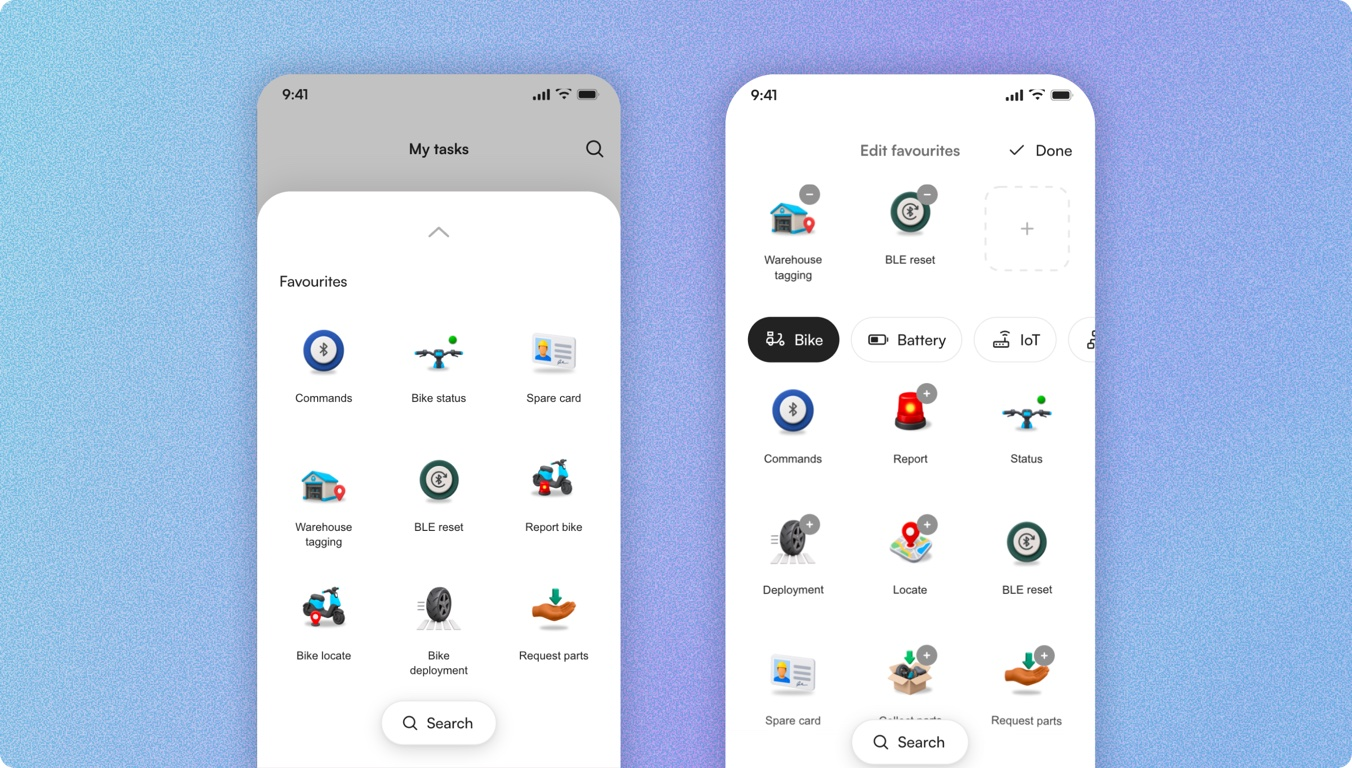
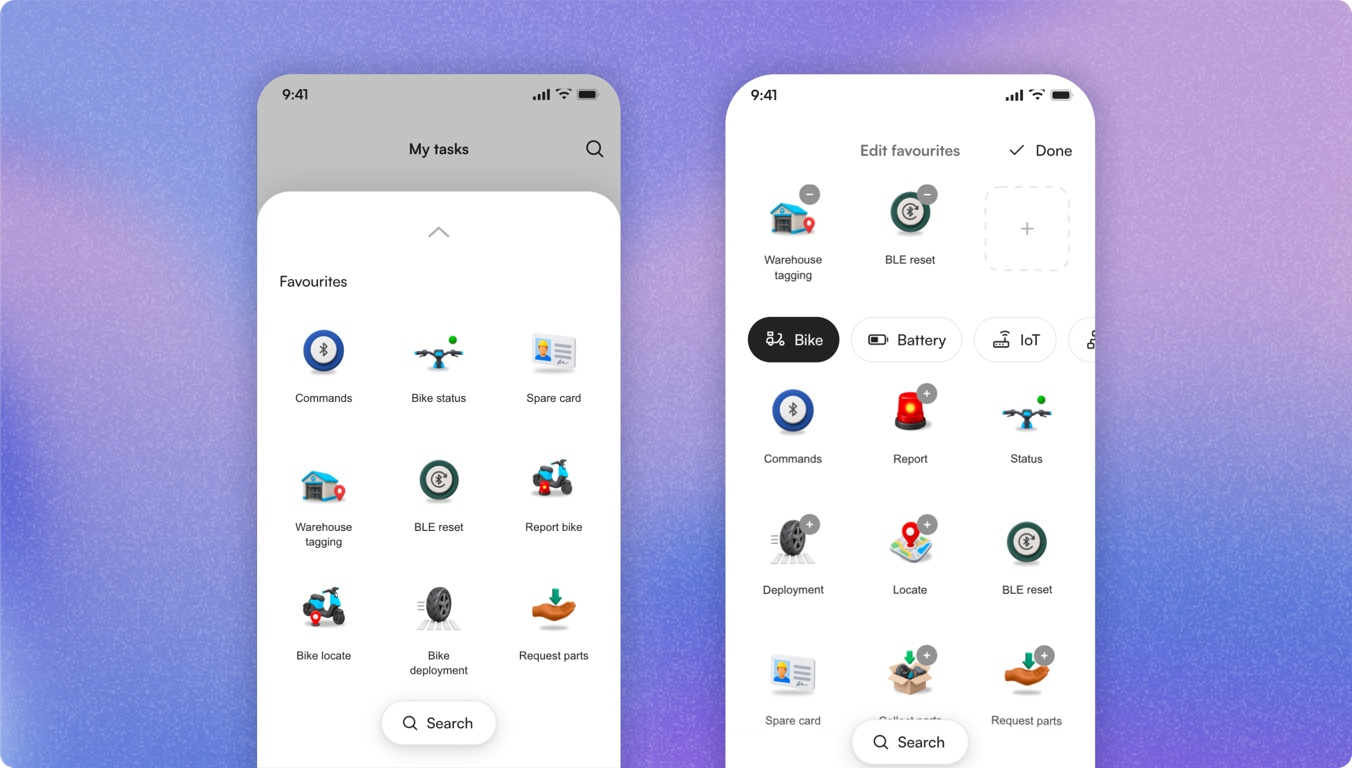
Drop the black card behind the photo, and two new thumbnails
The solid black card offset behind the About photo is gone, along with
the padding that reserved room for it and the negative margin that
re-centred the result on mobile. The window grows into the freed 14px
rather than the box shrinking: 226x333 -> 240x347 on desktop, 294x432 ->
308x452 on mobile. The desktop crop is re-aimed for the new 222x329
opening and keeps its head-to-knees framing; mobile's offsets are all
percentages, so they rescaled on their own.

Workbench takes Cs02_new.2.2 and Blinkit takes Cs05_new.2, both resized
from 2704x1536 to 1352x768 like the rest, with their cache-busters
bumped.

diff --git a/styles.css b/styles.css
@@ -450,8 +450,6 @@ img { max-width: 100%; display: block; }
   gap: 72px;
 }
 
-/* The frame stacks two same-sized cards: a solid black one nudged down and
-   right, and the white photo card on top of it. */
 /* Fixed portrait rectangle. align-self:start opts out of the grid's stretch,
    so the aspect-ratio below — not the row — decides the height. The bio is
    what stretches now. */
@@ -460,15 +458,6 @@ img { max-width: 100%; display: block; }
   align-self: start;
   flex: none;
   width: 308px;
-  padding: 0 14px 14px 0;          /* room for the black card to show through */
-}
-
-.photo::after {
-  content: "";
-  position: absolute;
-  inset: 14px 0 0 14px;
-  border-radius: 7px;
-  background: #000000;
 }
 
 /* The frame mirrors the shot. The flip has to sit on the window, not the
@@ -752,11 +741,8 @@ img { max-width: 100%; display: block; }
   .about { padding-top: 40px; padding-bottom: 96px; }
   .about-intro { grid-template-columns: minmax(0, 1fr); gap: 48px; }
 
-  /* Stacked, the photo is narrower than the column it now has to itself.
-     The 14px of black offset lives inside the box's own padding, so
-     centring the box would leave the white card sitting 7px left; the
-     margin gives that back. */
-  .photo { justify-self: center; margin-right: -14px; }
+  /* Stacked, the photo is narrower than the column it now has to itself. */
+  .photo { justify-self: center; }
 
   /* Stacked, there is no photo alongside to leave slack, so the auto margin
      would collapse to the 24px gap. Give the section break back explicitly. */
@@ -1070,18 +1056,15 @@ img { max-width: 100%; display: block; }
 
   .photo-window {
     position: absolute;
-    top: 0;
-    left: 0;
-    right: 14px;                     /* clears the black card's offset */
-    bottom: 14px;
+    inset: 0;
     aspect-ratio: auto;              /* the row decides the height now */
   }
 
   /* Re-aimed for the full-height window. The shot is a wide room and the
      subject a small part of it on the right, so the image is blown up and
      offset rather than object-fit'd — cover would barely crop and show the
-     whole room. These values put source x 719–1201, y 775–1505 across the
-     208x315 opening — the padding box, which is what the percentages resolve
+     whole room. These values put source x 714–1206, y 775–1505 across the
+     222x329 opening — the padding box, which is what the percentages resolve
      against and what overflow clips to, the 9px white border being outside
      both. That frames her head to her knees with the chair either side,
      rather than the whole figure down to the shoes: at this size the full
@@ -1092,9 +1075,9 @@ img { max-width: 100%; display: block; }
      it and a percentage would drag the framing with it. The window's own
      scaleX(-1) mirrors the result, as before. */
   .photo-window img {
-    width: 301.9%;
-    left: -149.2%;
-    top: -334px;
+    width: 295.4%;
+    left: -144.9%;
+    top: -349px;
   }
 
   .worked {

diff --git a/index.html b/index.html
@@ -11,7 +11,7 @@
      lifetime, so a returning visitor can get new HTML with an old stylesheet
      and see a broken page. Changing the query makes it a new URL and forces a
      refetch. BUMP BOTH NUMBERS whenever you edit styles.css or script.js. -->
-<link rel="stylesheet" href="styles.css?v=108">
+<link rel="stylesheet" href="styles.css?v=112">
 </head>
 <!-- The card design is the site, so its class is set here rather than by
      script.js: added after load it would show a frame of another design
@@ -110,7 +110,7 @@
          keeps the old thumbnail out of cache. Bump the number on any image
          that gets re-exported. -->
     <figure class="preview-panel" data-preview="workbench">
-      <img src="assets/case/cs01.jpg?v=3" alt="" width="676" height="384" decoding="async">
+      <img src="assets/case/cs01.jpg?v=5" alt="" width="676" height="384" decoding="async">
     </figure>
 
     <figure class="preview-panel" data-preview="mechanics">
@@ -126,7 +126,7 @@
     </figure>
 
     <figure class="preview-panel" data-preview="blinkit">
-      <img src="assets/case/cs05.jpg?v=3" alt="" width="676" height="384" decoding="async">
+      <img src="assets/case/cs05.jpg?v=4" alt="" width="676" height="384" decoding="async">
     </figure>
   </div>
 </section>
@@ -237,6 +237,6 @@
 </section>
 </main>
 
-<script src="script.js?v=108"></script>
+<script src="script.js?v=112"></script>
 </body>
 </html>
